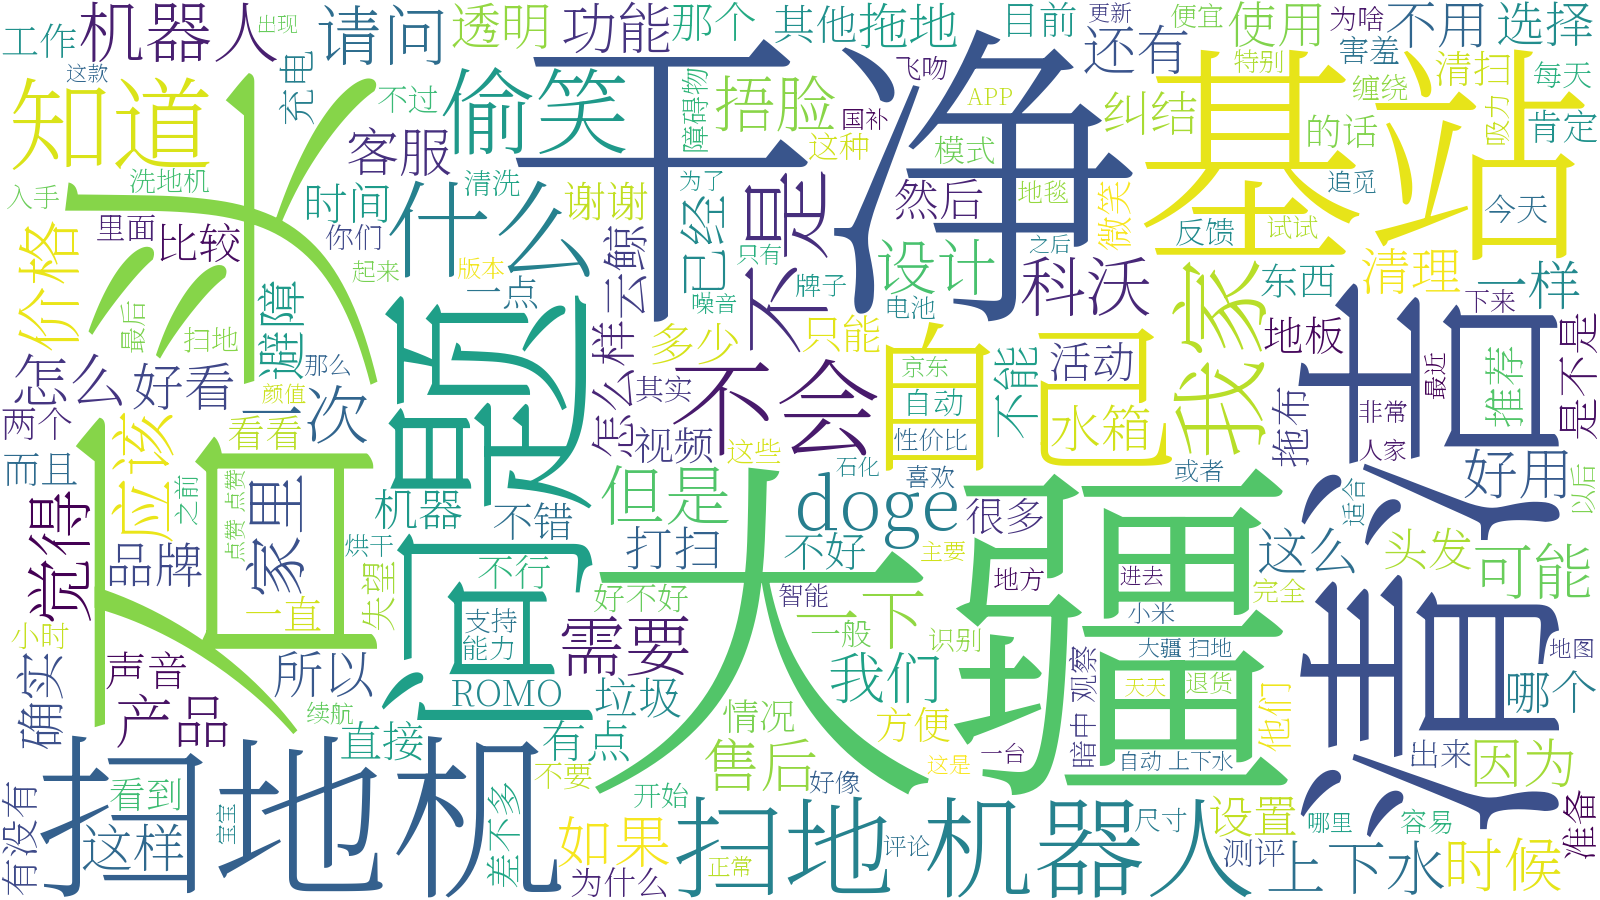
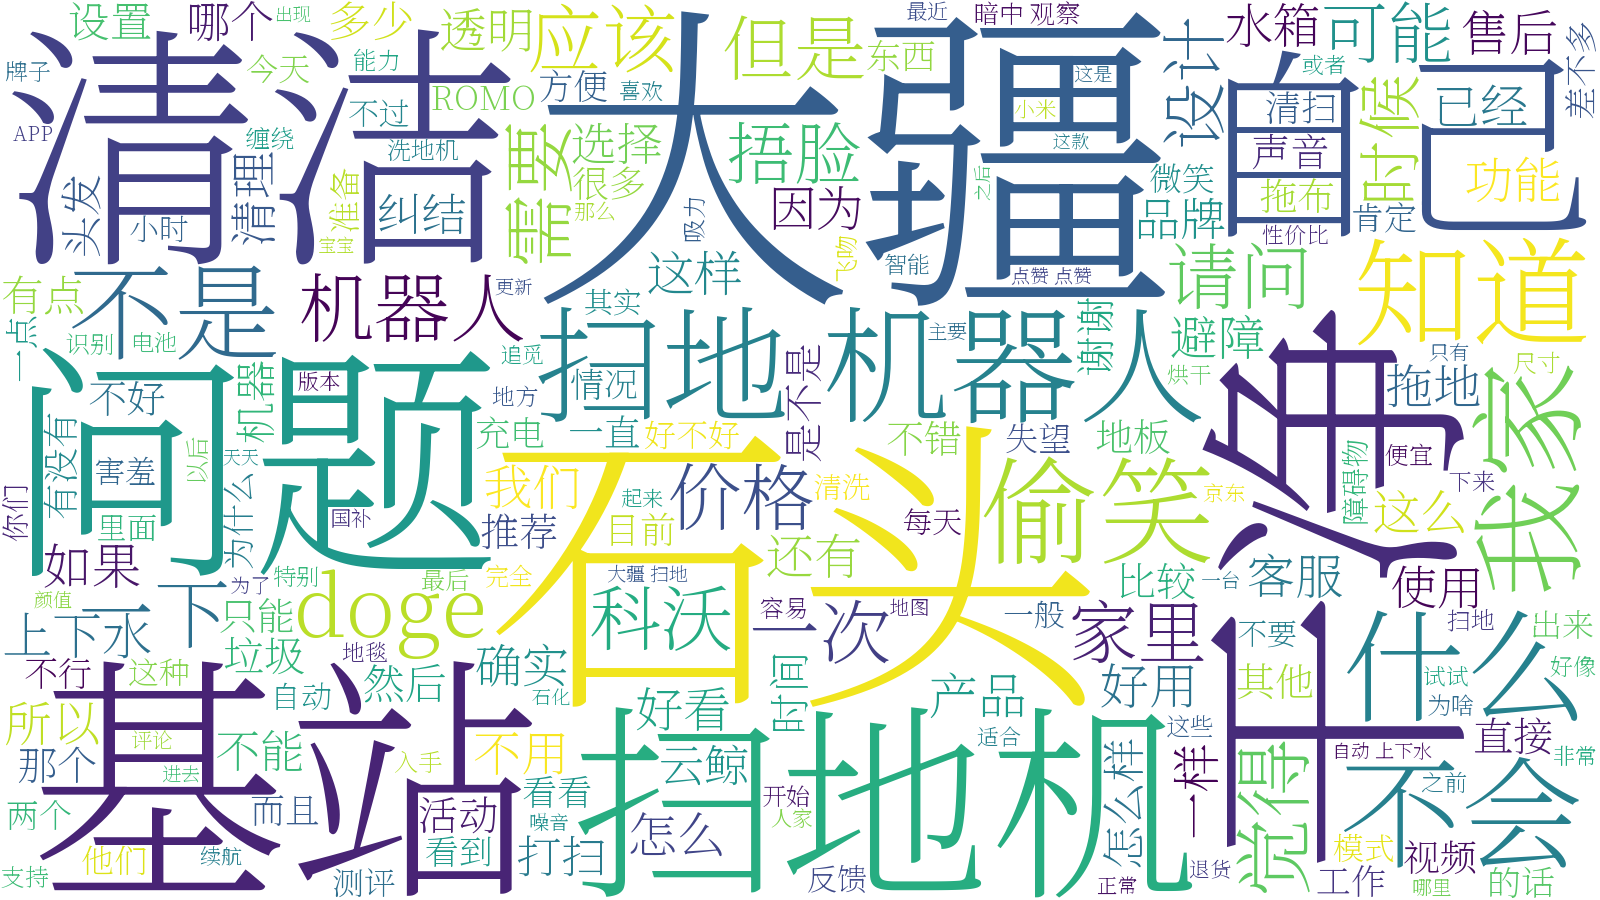
update model

diff --git a/src/scraper.py b/src/scraper.py
@@ -1,14 +1,31 @@
-class Scraper:
-    def __init__(self):
-        pass
+from jz_crawler import XhsDataService
+import os
 
-    def run(self):
-        """
-        Future implementation: Scrape XHS data.
-        For now, we rely on the CSV files in the data/ folder.
-        """
-        print("Scraper is currently a placeholder. Use local Sample CSV data.")
+class Scraper:
+    def __init__(self, data_dir="data"):
+        self.data_dir = data_dir
+        self.client = XhsDataService(api_key=os.getenv("CRAWLING_KEY"))
+        
+        if not os.path.exists(self.data_dir):
+            os.makedirs(self.data_dir)
+
+    def scrape(self, keyword: str, limit: int = 10):
+
+        try: 
+            print(f"[Scraper] Requesting '{keyword}' from XhsDataService API...")
+            
+            df_contents, df_comments = self.client.search_keyword(keyword, count=limit)
+
+            path_contents = os.path.join(self.data_dir, f"notes_{keyword}_search_contents.csv")
+            path_comments = os.path.join(self.data_dir, f"comments_{keyword}_search_comments.csv")
+
+            df_contents.to_csv(path_contents, index=False, encoding='utf-8-sig')
+            df_comments.to_csv(path_comments, index=False, encoding='utf-8-sig')
+        except:
+            print("Warning! Crawling Service NOT Available. Use Local Database Instead.")
+        
 
 if __name__ == "__main__":
-    scraper = Scraper()
-    scraper.run()
+    # Test execution
+    s = Scraper()
+    s.scrape("TestProduct")

diff --git a/src/analyzer.py b/src/analyzer.py
@@ -51,7 +51,7 @@ class Analyzer:
             # We don't need to worry too much about input truncation here 
             # because the calling functions manage the context size.
             response = self.client.chat.completions.create(
-                model="deepseek-reasoner", 
+                model="deepseek-chat", 
                 messages=[
                     {"role": "system", "content": system_prompt},
                     {"role": "user", "content": user_prompt},

diff --git a/src/generator.py b/src/generator.py
@@ -197,7 +197,7 @@ You can be flexible, if you think the things is too noncense, you can provide yo
         try:
             print("Sending request to DeepSeek API...")
             response = self.client.chat.completions.create(
-                model="deepseek-reasoner",
+                model="deepseek-chat",
                 messages=messages,
                 stream=False,
                 temperature=0.7
